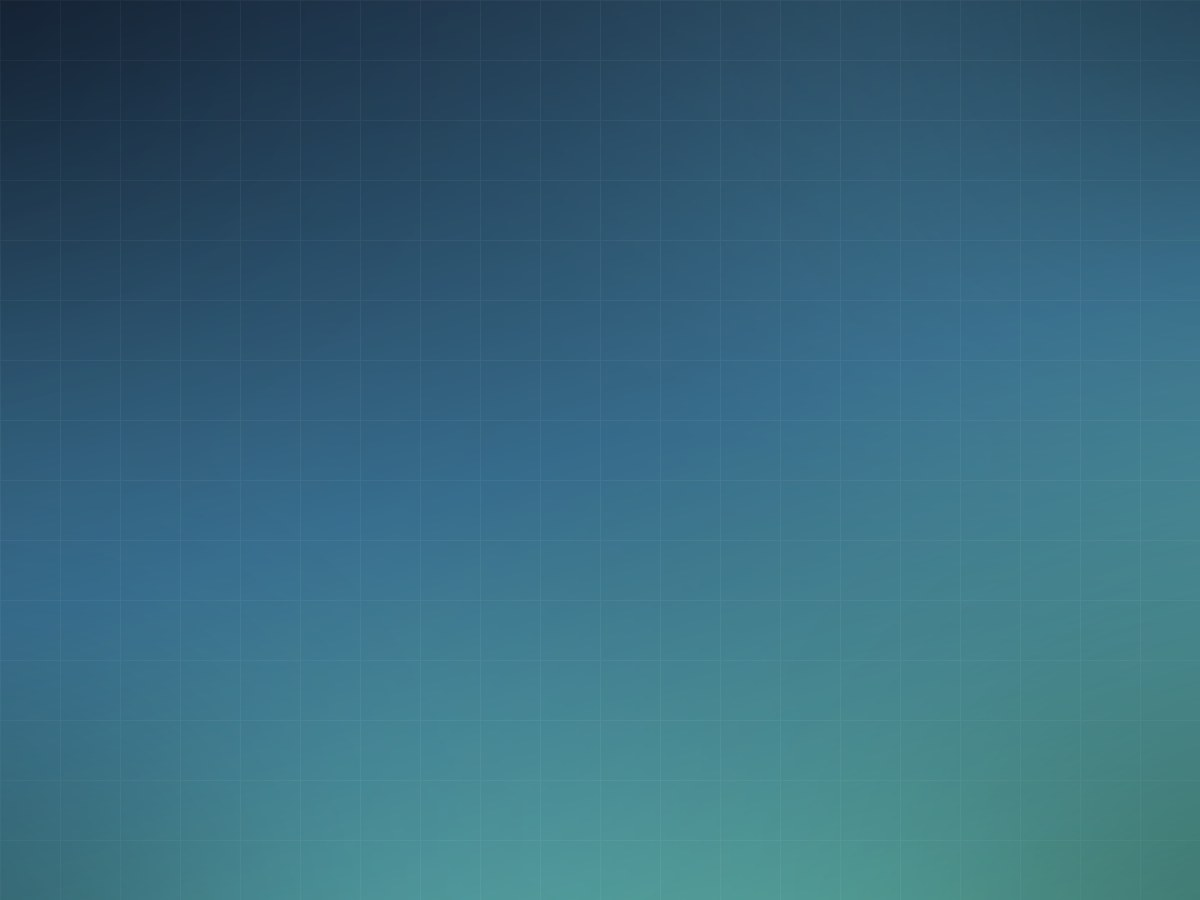
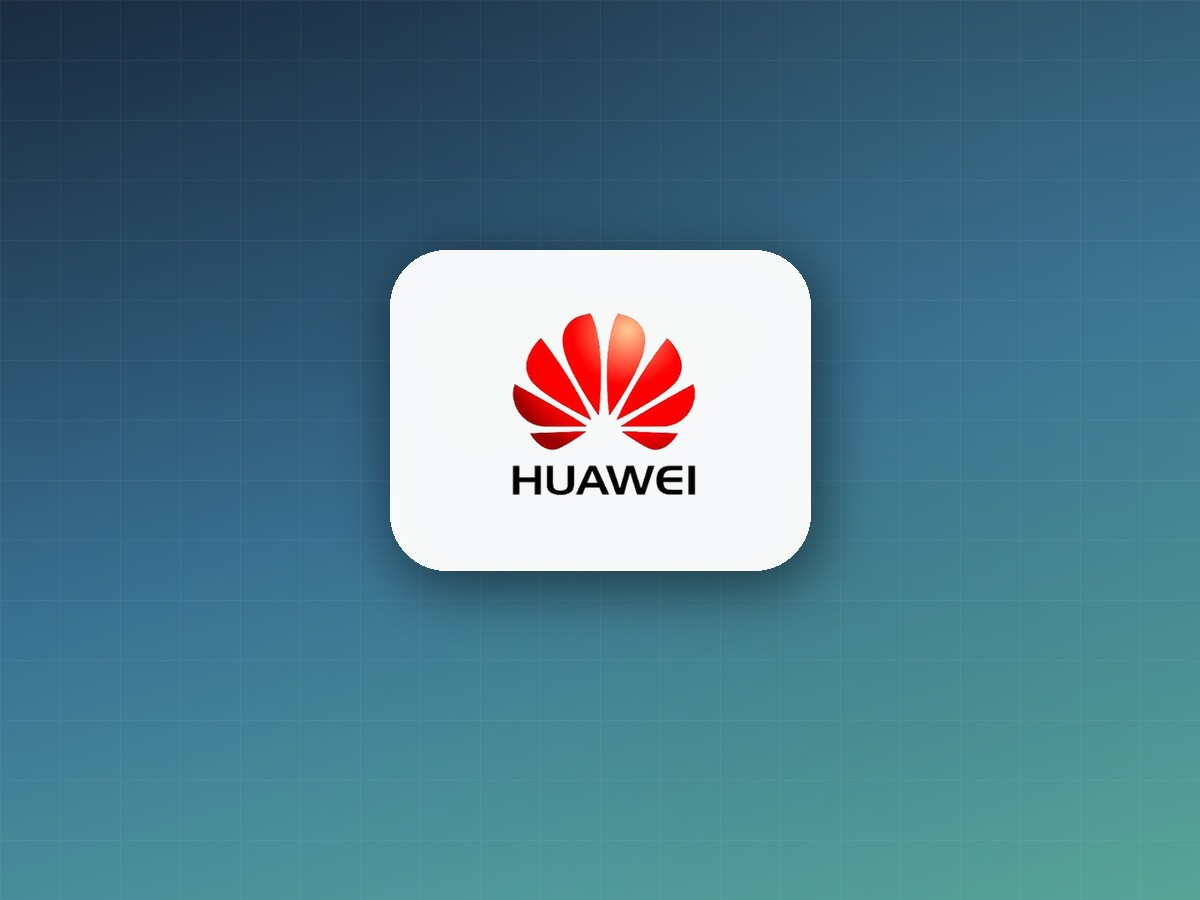
feat: Huawei badge on the manual covers and heroes

diff --git a/build.js b/build.js
@@ -380,6 +380,7 @@ function loadPosts() {
         tags: Array.isArray(parsed.data.tags) ? parsed.data.tags : parsed.data.tags ? [parsed.data.tags] : [],
         category: parsed.data.category || '未分类',
         cover: parsed.data.cover || '',
+        hero: parsed.data.hero || '',
         summary: parsed.data.summary || truncate(stripMd(parsed.body), 110),
         draft: String(parsed.data.draft || '').toLowerCase() === 'true',
         pinned: String(parsed.data.pinned || '').toLowerCase() === 'true',
@@ -1005,7 +1006,7 @@ function buildPost(post, all) {
   pager.push('</nav>');
 
   /* 文章页头图优先用这篇自己的封面，其次站点设定，最后回落到横幅图 */
-  const heroPhoto = post.cover || SITE.postHero || (hasCarousel() && firstSlideImage()) || '';
+  const heroPhoto = post.hero || post.cover || SITE.postHero || (hasCarousel() && firstSlideImage()) || '';
 
   const content = [
     '<header class="post-hero' + (heroPhoto ? ' has-photo' : '') + '">',

diff --git a/content/posts/harmony-setup.md b/content/posts/harmony-setup.md
@@ -3,11 +3,10 @@ title: 南向工程启动与参数修改
 date: 2026-10-27
 category: 鸿蒙南向工程手册
 cover: /assets/images/covers/harmony-1.jpg
+hero: /assets/images/covers/harmony-1-hero.jpg
 tags: [鸿蒙, WS63, 环境搭建]
 summary: 准备 SDK 与附件、拷贝示例工程、替换 config.py，再把 Wi-Fi 和两台设备的 MQTT 参数填进配置文件。
 ---
-
-![](/assets/images/harmony/huawei-logo.png)
 
 准备好 SDK 和 attach 附件（本套示例的附件目录为 attach_env_lamp，下文仍记为 attach），SDK 根目录统一记为 fbb_ws63。在资源管理器中分别打开附件和 SDK；也可在 VS Code左侧资源管理器中展开这两个目录。
 

diff --git a/content/posts/harmony-cloud.md b/content/posts/harmony-cloud.md
@@ -3,11 +3,10 @@ title: 华为云平台接入与数据贯通
 date: 2026-10-27
 category: 鸿蒙南向工程手册
 cover: /assets/images/covers/harmony-3.jpg
+hero: /assets/images/covers/harmony-3-hero.jpg
 tags: [鸿蒙, 华为云, IoTDA]
 summary: 把 IoTDA 的连接参数写进工程，验证云端下发命令、报警联动和台灯自动控制这几条链路。
 ---
-
-![](/assets/images/harmony/huawei-logo.png)
 
 ### 1   产品与设备注册见华为云新建设备与产品(模型).pdf
 

diff --git a/content/posts/harmony-build-flash.md b/content/posts/harmony-build-flash.md
@@ -3,11 +3,10 @@ title: 固件编译与烧录
 date: 2026-10-27
 category: 鸿蒙南向工程手册
 cover: /assets/images/covers/harmony-2.jpg
+hero: /assets/images/covers/harmony-2-hero.jpg
 tags: [鸿蒙, 烧录, 调试]
 summary: 一次只勾选一个示例，编译、烧录、看启动日志；两块板子分别刷固件，靠星闪自动配对。
 ---
-
-![](/assets/images/harmony/huawei-logo.png)
 
 ### 1  编译当前勾选的示例
 
